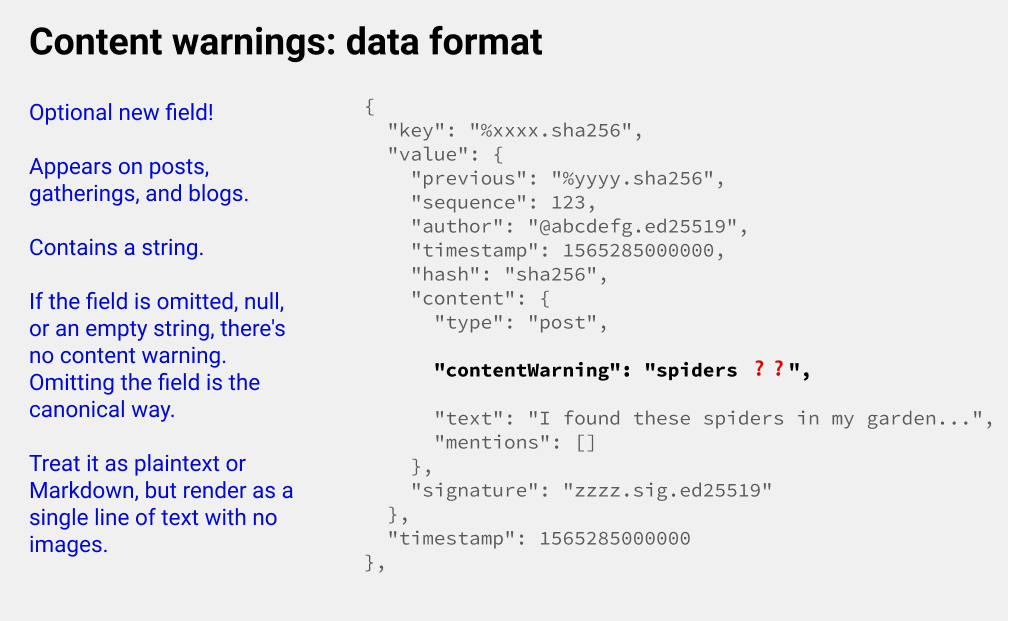
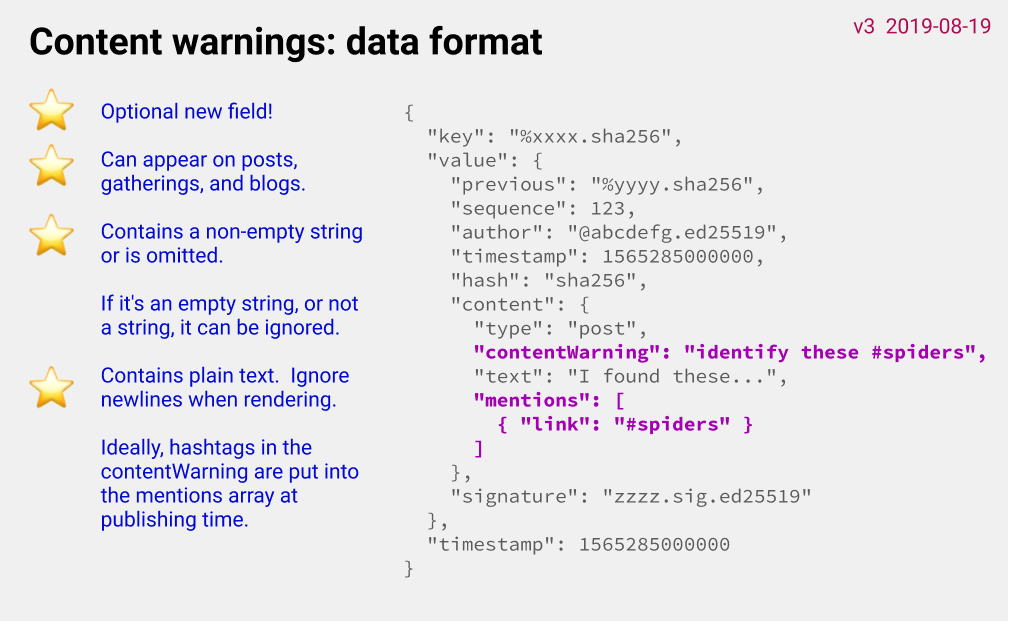
v3 content warning spec

diff --git a/drafts/draft-ssb-app-content-warning/00/draft-ssb-app-content-warning-00.md b/drafts/draft-ssb-app-content-warning/00/draft-ssb-app-content-warning-00.md
@@ -48,97 +48,33 @@ A short survey of Mastodon posts showed these content warnings (paraphrased).  T
 * content that only some readers care about, like local events in a city
 * identify this spider for me
 
-## Author experience
+On SSB perhaps people will #hashtag the important words to make auto-filtering easier.
 
-When authoring a supported message type (see below), clients SHOULD provide a "content warning" field for the author to enter an arbitrary string.  This field SHOULD be a single line, disallowing newlines, with a maximum length of 512 bytes (when encoded in UTF-8).
+## Ideas for user preferences
 
-The client SHOULD place this field after the main body field, next to the Post button.  This reminds the author to consider the field before posting.
+* Auto-expand or auto-collapse...
+  * all CWs
+  * CWs from these users: ___
+  * CWs with these words or hashtags: ___
 
-The content warning field is assumed to contain a subset of Markdown (see below).  Clients MAY autocomplete channel names/hashtags, emoji shortcodes, and @username mentions in this field.
+* Download images in CW posts...
+  * in advance
+  * when post is expanded
+  * when image is clicked
 
-## Reader experience
-
-At a bare minimum, clients MUST show content warnings above messages, even if they are not interactive.
-
-When the reader first encounters a post with a CW (content warning), it SHOULD be collapsed by default unless the user has changed the client settings.
-
-A collapsed message shows the text of the content warning instead of the main body of the message.  It still shows the author, time, number of likes, etc.  It MUST NOT show any images.
-
-Clicking the CW toggles the display of the main body, below the CW.  The CW MUST remain visible.  It MUST be possible to re-collapse the message after expanding it, because the user may change their mind after seeing the content.
-
-The CW MUST be rendered in a way that is distinct from regular body text so the user knows what it is.  This could be an icon next to the text such as a disclosure triangle, a different color or font weight, or some other typographical convention such as putting it in brackets.
-
-Since the CW can contain links, there MUST be a place to click outside of the CW text which will expand/collapse the post, such as the border space around the CW text, without hitting the links.
-
-Clients MAY take readers to a new page to read an expanded post instead of expanding it inline, but this is discouraged as it disrupts the reading flow.
-
-### Parsing and rendering of the CW text itself
-
-If the CW text is longer than usual (approximately 512 bytes), it SHOULD be truncated and the user SHOULD be able to expand the CW itself to see the entire CW text, before expanding the body of the message.
-
-The client MAY treat the CW as either plain text or a subset of Markdown.  The intent of this specification is to render the CW as a single line of rich text.
-
-Allowed Markdown features:
-* links
-* literal emoji characters
-* emoji shortcodes
-* @mentions
-* #hashtags / channels
-* bold, italic
-
-Images MUST NOT be shown in the CW message itself.
-
-Markdown features related to layout and font size MUST instead be rendered as part of the single line of text:
-* newlines -- omit them
-* headers -- show as bold, regular size text
-* tables
-* horizontal rules
-
-The client MAY automatically linkify links in the CW text such as @mentions, #hashtags, ssb message links, blob links, and URLs.
-
-The [ssb-markdown](https://github.com/ssbc/ssb-markdown) library has a function `md.inline(source, opts)` which renders markdown to a single line of output.  TODO: is this suitable?  Does it render images?
-
-### User preferences
-
-Clients SHOULD default messages to a collapsed state unless the user has changed settings.
-
-Clients SHOULD allow users to automatically expand all CW'd posts.
-
-Clients SHOULD NOT allow users to ever hide the CW text itself, as this provides important social context and meaning for the message.
-
-Clients MAY remember the expanded/collapsed state of each individual message.
-
-Clients could have a variety of settings about the behavior of CW'd messages, such as:
-* Automatically start CW'd messages as: expanded / collapsed
-* Auto-expand or collapse messages with the following words in their CW: _____
-* Auto-expand or collapse CW messages from the following people: _____
-
-Clients MAY offer these settings in a menu embedded within each CW, such as "always expand posts from this author".
-
-Unless the user clearly indicates otherwise, these settings MUST NOT be stored as public messages in the user's feed -- all of these settings, and the user's expand/collapse actions, MUST be private and will likely stored locally outside of the user's feed.
-
-Clients MAY allow users to share their CW viewing settings, blocklists, and allowlists.  This could happen by publishing public messages, subscribing to other users' settings, or allowing the user to import and export settings manually (for example, as JSON).  The user MUST be clearly informed before public sharing occurs so it does not happen by accident.  Details of this sharing out out of scope for this document.
-
-### Images within CW posts
+* Blur images in CW posts
 
 Users may wish to only download images from inside CW'd posts on demand, when they choose to expand the post.  This could be for legal, moral, or contextual reasons (e.g. the user is on a work computer).
 
-Users may also wish to pre-fetch images in bulk so that they can go offline.  This conflicts with the previous wish.  Clients MAY offer settings to configure this behavior in detail.
+Users may also wish to pre-fetch images in bulk so that they can go offline.  This conflicts with the previous wish.
 
-Clients SHOULD default to the "safer" behavior of only downloading images when the post is expanded.
+## Privacy
 
-Recommended client settings:
+Unless the user clearly indicates otherwise, their settings should not be stored as public messages in the user's feed.
 
-> Downloading images in content-warning'd posts:
-> * download when each post is expanded
-> * download in advance (good for offline situations)
-> 
-> Viewing images in content-warning'd posts:
-> * show immediately
-> * blur until clicked
-> * don't download at all until clicked
+Clients could allow users to export their settings, blocklists, and allowlists and share them with others.
 
-### Accessibility
+## Accessibility
 
 CWs add work to the process of reading because readers have to manually expand posts.  This amount of work may be an accessibility barrier.
 
@@ -160,11 +96,13 @@ The content warning is a string in an optional JSON field, `contentWarning`.
       "content": {
         "type": "post",
 
-        "contentWarning": "horrible spiders",
-        ^^^^^^^^^^^^^^^^^^^^^^^^^^^^^^^^^^^^^
+        "contentWarning": "identify these #spiders",
+        ^^^^^^^^^^^^^^^^^^^^^^^^^^^^^^^^^^^^^^^^^^^^
 
         "text": "Can anyone help me identify these spiders? ![spider-party.jpg](&ssss.sha256)",
-        "mentions": []
+        "mentions": [
+          { "link": "#spiders" }
+        ]
       },
       "signature": "zzzz.sig.ed25519"
     },
@@ -172,24 +110,9 @@ The content warning is a string in an optional JSON field, `contentWarning`.
   },
 ```
 
-When authoring a message, clients MUST omit the field if they intend there to be no content warning.
-
-When reading a message, clients MUST interpret these cases to mean there is NO content warning: the field is omitted, `null`, an empty string, or something other than a string.
-
-Clients MUST support content warnings on these message types:
-* `post`
-* `gathering`
-* `blog`
-
-Clients SHOULD show content warnings even if they do not yet provide a way to author them.
-
-Future message types which contain substantial content SHOULD also support content warnings.
-
-Both public and private messages MUST support content warnings.
-
 ## Future directions
 
-We could use [Blurhash](https://blurha.sh) which converts images to very low resolution thumbnails stored as short text strings.  This would allow showing blurry images before downloading the actual image.  Mastodon does this; see [their blog post](https://blog.joinmastodon.org/2019/05/improving-support-for-adult-content-on-mastodon/).  It's not immediately obvious where to put these strings in a message's JSON object; or do they belong in a lower level of the stack, where blobs are handled?
+We could use [Blurhash](https://blurha.sh) which converts images to very low resolution thumbnails stored as short text strings.  This would allow showing blurry images before downloading the actual image.  Mastodon does this; see [their blog post](https://blog.joinmastodon.org/2019/05/improving-support-for-adult-content-on-mastodon/).
 
 We could let people place content warnings on other people's posts, but that's outside the scope of this document.  Care is required to avoid creating new vectors for abuse.
 
@@ -201,7 +124,7 @@ You can use the [details](https://developer.mozilla.org/en-US/docs/Web/HTML/Elem
 
 **- When a CW'd post has comments, should the entire thread be collapsed or only the first post?**
 
-We don't know yet.  Let's see how people use this.
+If the user doesn't want to read the post, they probably don't want to read the comments?
 
 **- Why not use standardized or structured tags?**
 
@@ -211,7 +134,9 @@ The rich diversity of use-cases for content warnings, and the way they vary from
 
 Showing the user something they don't want to see can be serious (emotionally painful, illegal, etc).  Without global standards, an automated show-or-hide feature will frequently fail and show users things they don't want to see, so it can't be relied on.  For that reason we default to hiding all posts and let the user decide about each one.
 
-Locally standardized tags will probably emerge in various communities.  Clients MAY autocomplete the content warning field with common words and hashtags observed in other content warning fields, to facilitate this convergence.  But clients MUST also allow free text entry so authors can describe the subtlety of their content.
+Locally standardized words will probably emerge in various communities.  Clients can autocomplete the content warning field with common words and hashtags observed in other content warning fields, to facilitate this convergence.
+
+The primary goal, though, is human readbility.  People may want to auto-expand some words, but which content they feel like reading will vary from day to day according to their mood and emotional resources.
 
 **- Why a new JSON field instead of embedding the warning inside the post text?**
 
